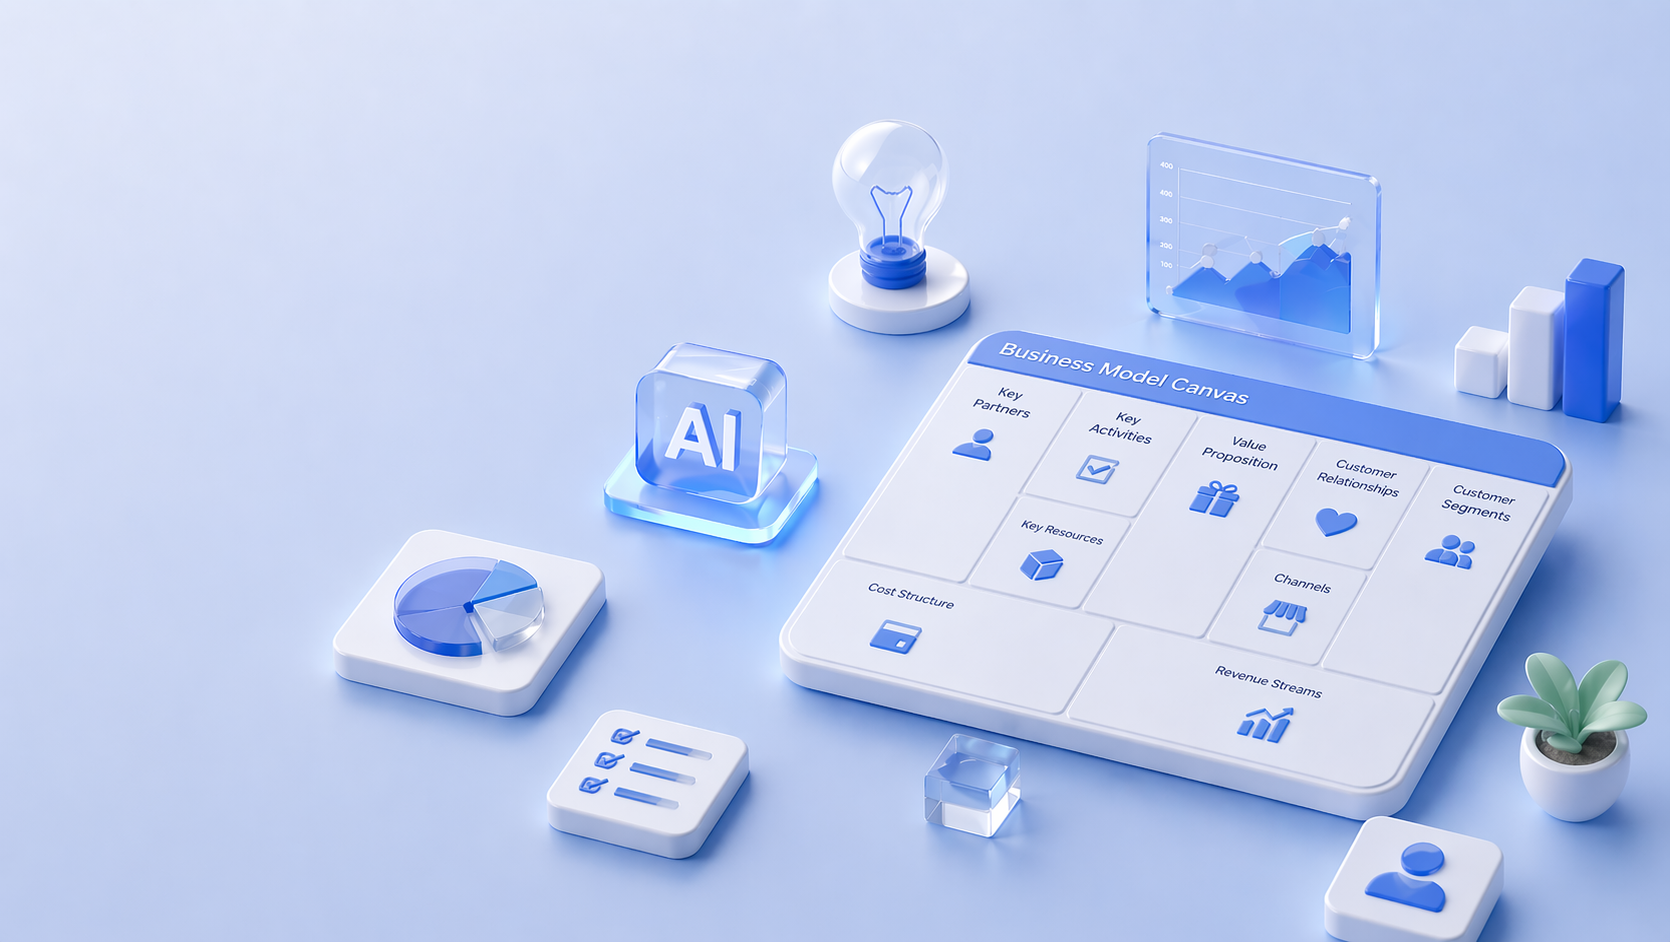
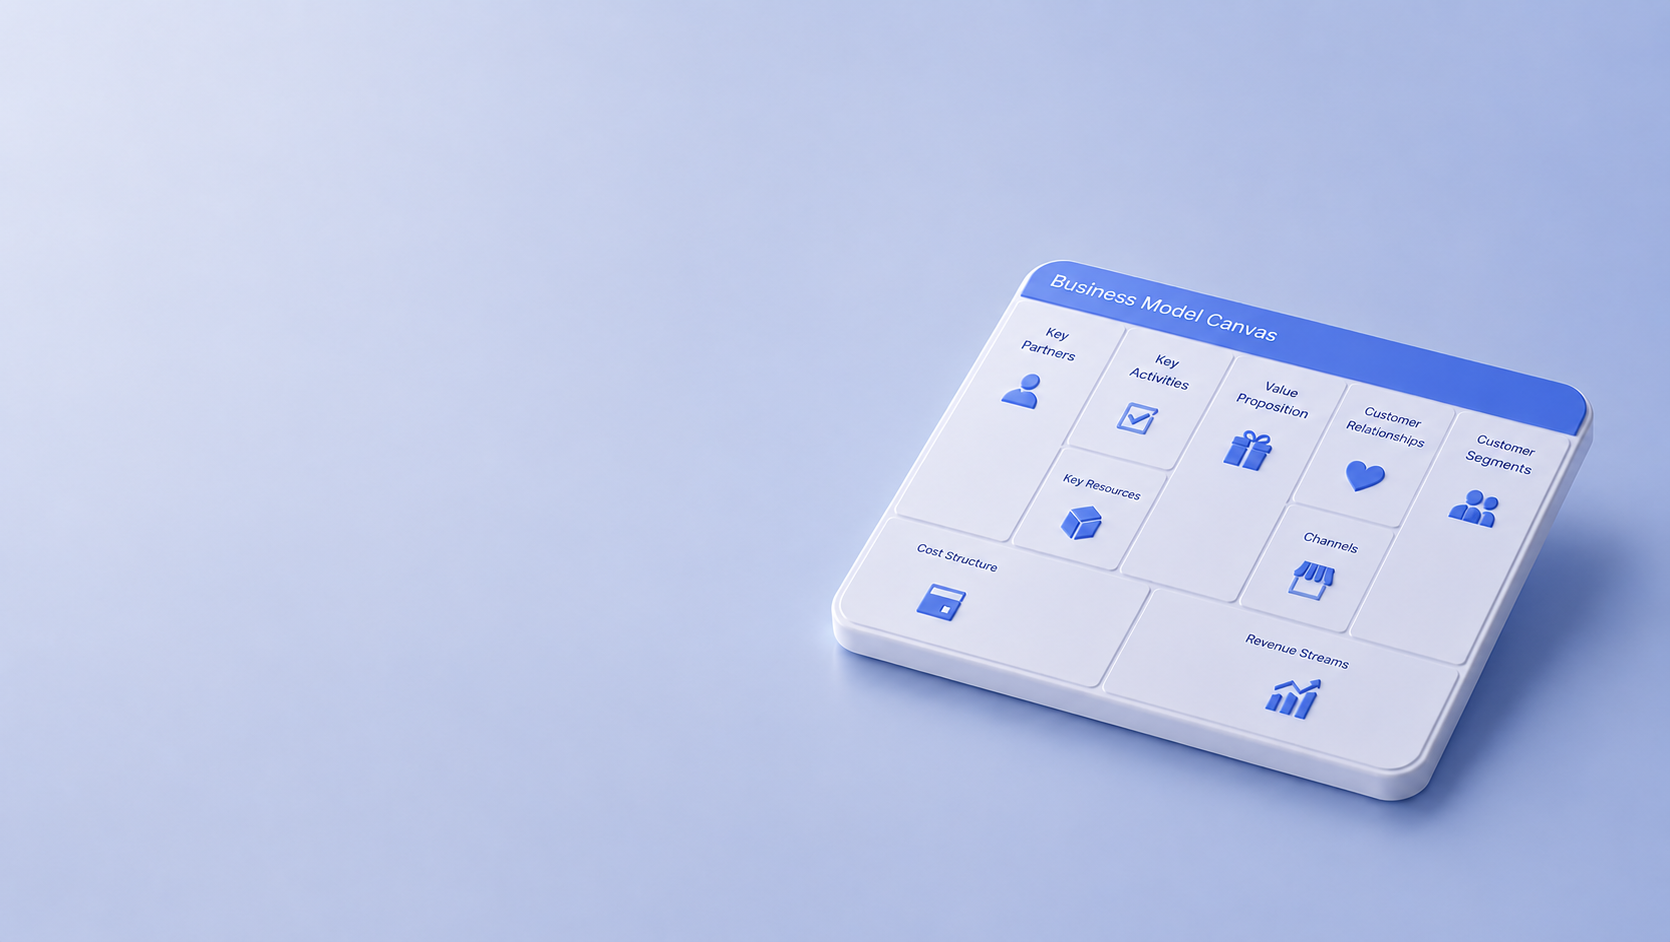
feat: 메인페이지 배경 및 STEP 가이드 UI 개선

diff --git a/src/pages/MainPage.jsx b/src/pages/MainPage.jsx
@@ -1,6 +1,7 @@
 import MainLayout from "../layouts/MainLayout";
 import Button from "../components/Button";
-import { ChevronDown } from "lucide-react";
+import { useState } from "react";
+import { ChevronDown, ChevronLeft, ChevronRight } from "lucide-react";
 
 const scrollToSection = (id) => {
   const element = document.getElementById(id);
@@ -12,45 +13,68 @@ const scrollToSection = (id) => {
   }
 };
 
-const guideImages = [
+const guideSteps = [
   {
-    step: "STEP 01",
+    step: "STEP 1",
     title: "아이디어 입력",
+    desc: "사업 아이디어의 제목과 핵심 내용을 입력합니다.",
     image: "/Guide_01_Idea.png",
   },
   {
-    step: "STEP 02",
+    step: "STEP 2",
     title: "경쟁 서비스 탐색",
+    desc: "입력한 아이디어와 유사한 경쟁 서비스를 탐색합니다.",
     image: "/Guide_02_Explore.png",
   },
   {
-    step: "STEP 03",
+    step: "STEP 3",
     title: "BMC 자동 생성",
+    desc: "AI가 아이디어를 기반으로 비즈니스 모델 캔버스를 생성합니다.",
     image: "/Guide_03_Create.png",
   },
   {
-    step: "STEP 04",
+    step: "STEP 4",
     title: "BMC 분석",
+    desc: "생성된 BMC의 강점과 보완점을 분석합니다.",
     image: "/Guide_04_Analyze.png",
   },
   {
-    step: "STEP 05",
-    title: "결과 출력",
+    step: "STEP 5",
+    title: "분석 결과 확인",
+    desc: "AI 분석 결과를 확인하고 개선 방향을 파악합니다.",
     image: "/Guide_05_Result.png",
   },
   {
-    step: "STEP 06",
+    step: "STEP 6",
     title: "마이페이지",
+    desc: "생성한 아이디어와 BMC 기록을 관리합니다.",
     image: "/Guide_06_MyPage.png",
   },
   {
-    step: "STEP 07",
+    step: "STEP 7",
     title: "BMC 수정",
+    desc: "필요한 내용을 직접 수정하며 BMC를 완성합니다.",
     image: "/Guide_07_Edit.png",
   },
 ];
 
 function MainPage() {
+  const [currentStep, setCurrentStep] = useState(0);
+
+  const prevStep = () => {
+    setCurrentStep((prev) =>
+      prev === 0 ? guideSteps.length - 1 : prev - 1
+    );
+  };
+
+  const nextStep = () => {
+    setCurrentStep((prev) =>
+      prev === guideSteps.length - 1 ? 0 : prev + 1
+    );
+  };
+
+  const step = guideSteps[currentStep];
+
   return (
     <MainLayout>
       {/* Hero */}
@@ -59,7 +83,9 @@ function MainPage() {
         className="
           relative
           overflow-hidden
-          bg-[radial-gradient(circle_at_center,_#e6edff_0%,_#dbe6fb_45%,_#cfddf5_100%)]
+          bg-gradient-to-r
+          from-[#F4F7FF]
+          to-[#DCE6FF]
         "
       >
         <div
@@ -73,7 +99,7 @@ function MainPage() {
             bg-no-repeat
           "
           style={{
-            backgroundImage: "url('/MainPage_Background.png')",
+            backgroundImage: "url('/Background2.png')",
           }}
         >
           {/* 좌우 배경 연결 */}
@@ -84,7 +110,7 @@ function MainPage() {
               left-0
               w-40
               bg-gradient-to-r
-              from-[#d7e2f7]
+              from-[#F4F7FF]
               to-transparent
               z-[1]
               pointer-events-none
@@ -98,9 +124,8 @@ function MainPage() {
               right-0
               w-40
               bg-gradient-to-l
-              from-[#d7e2f7]
+              from-[#DCE6FF]
               to-transparent
-              
               z-[1]
               pointer-events-none
             "
@@ -161,7 +186,7 @@ function MainPage() {
         </div>
 
         <button
-          onClick={() => scrollToSection("guide-0")}
+          onClick={() => scrollToSection("guide")}
           className="
             absolute
             bottom-8
@@ -178,57 +203,157 @@ function MainPage() {
       </section>
 
       {/* Guide */}
-      <section className="bg-white py-20">
+      <section id="guide" className="w-full bg-white pt-7 pb-11">
         <div className="max-w-[1440px] mx-auto px-10">
-          <div className="flex flex-col gap-32">
-            {guideImages.map((item, index) => (
-              <section
-                id={`guide-${index}`}
+          
+          <div className="text-center mb-8">
+            <h2 className="text-4xl font-bold text-gray-900">
+              PlanB 사용 방법
+            </h2>
+          </div>
+
+          {/* STEP Tabs */}
+          <div className="flex justify-center gap-3 mb-12 flex-wrap">
+            {guideSteps.map((item, index) => (
+              <button
                 key={item.step}
-                className="relative flex flex-col gap-6 pb-20"
+                onClick={() => setCurrentStep(index)}
+                className={`
+                  px-5 py-3 rounded-full text-sm font-semibold transition-all
+                  ${
+                    currentStep === index
+                      ? "bg-blue-500 text-white shadow-[0_8px_24px_rgba(59,130,246,0.25)]"
+                      : "bg-white text-gray-400 border border-gray-200 hover:text-blue-500 hover:border-blue-300"
+                  }
+                `}
               >
-                <div>
-                  <span className="text-blue-500 font-semibold text-2xl tracking-wide">
-                    {item.step}
-                  </span>
-
-                  <h3 className="text-3xl font-bold text-gray-900 mt-3">
-                    {item.title}
-                  </h3>
-                </div>
-
-                <img
-                  src={item.image}
-                  alt={item.title}
-                  className="
-                    w-full
-                    rounded-3xl
-                    border border-gray-200
-                    shadow-[0_20px_60px_rgba(0,0,0,0.06)]
-                  "
-                />
-
-                {index !== guideImages.length - 1 && (
-                  <button
-                    onClick={() => scrollToSection(`guide-${index + 1}`)}
-                    className="
-                      absolute
-                      -bottom-16
-                      left-1/2
-                      -translate-x-1/2
-                      text-gray-500
-                      hover:text-blue-500
-                      transition
-                      animate-bounce
-                    "
-                  >
-                    <ChevronDown size={44} strokeWidth={1.5} />
-                  </button>
-                )}
-              </section>
+                {item.step}
+              </button>
             ))}
           </div>
+
+          {/* Slider */}
+          <div className="relative overflow-hidden rounded-[36px] border border-gray-100 bg-[#F8FAFF] shadow-[0_20px_60px_rgba(15,23,42,0.08)]">
+
+            <div className="grid grid-cols-[1.15fr_0.85fr] min-h-[620px]">
+
+              {/* Left */}
+              <div className="relative flex items-center justify-center overflow-hidden bg-gradient-to-br from-[#F4F7FF] to-[#DCE6FF] p-14">
+
+                {/* Blur */}
+                <div className="absolute w-[520px] h-[520px] rounded-full bg-white/40 blur-3xl" />
+
+                {/* Prev */}
+                <button
+                  onClick={prevStep}
+                  className="
+                    absolute left-8 z-20
+                    w-12 h-12 rounded-full bg-white/90
+                    flex items-center justify-center
+                    border border-gray-100
+                    shadow-md
+                    hover:bg-blue-50
+                    active:scale-95
+                    transition
+                  "
+                >
+                  <ChevronLeft className="text-blue-500" />
+                </button>
+
+                {/* Image */}
+                <div
+                  key={currentStep}
+                  className="
+                    relative z-10
+                    w-full max-w-[760px]
+                    animate-[slideIn_0.45s_ease]
+                  "
+                >
+                  <div className="rounded-[30px] bg-white/70 p-4 backdrop-blur shadow-[0_18px_50px_rgba(15,23,42,0.12)]">
+
+                    <img
+                      src={step.image}
+                      alt={step.title}
+                      className="
+                        w-full
+                        h-[420px]
+                        object-cover
+                        object-top
+                        rounded-[22px]
+                      "
+                    />
+                  </div>
+                </div>
+
+                {/* Next */}
+                <button
+                  onClick={nextStep}
+                  className="
+                    absolute right-8 z-20
+                    w-12 h-12 rounded-full bg-white/90
+                    flex items-center justify-center
+                    border border-gray-100
+                    shadow-md
+                    hover:bg-blue-50
+                    active:scale-95
+                    transition
+                  "
+                >
+                  <ChevronRight className="text-blue-500" />
+                </button>
+              </div>
+
+              {/* Right */}
+              <div className="flex flex-col justify-center px-16 py-14">
+
+                <p className="text-blue-500 text-lg font-bold mb-4">
+                  {step.step}
+                </p>
+
+                <h3 className="text-5xl font-bold text-gray-900 leading-tight mb-8">
+                  {step.title}
+                </h3>
+
+                <p className="text-gray-500 text-lg leading-9 mb-12">
+                  {step.desc}
+                </p>
+
+                {/* Progress */}
+                <div className="flex gap-2">
+                  {guideSteps.map((_, index) => (
+                    <div
+                      key={index}
+                      className={`
+                        h-2 rounded-full transition-all duration-300
+                        ${
+                          currentStep === index
+                            ? "w-10 bg-blue-500"
+                            : "w-2 bg-gray-300"
+                        }
+                      `}
+                    />
+                  ))}
+                </div>
+              </div>
+            </div>
+          </div>
         </div>
+
+        <style>
+          {`
+            @keyframes slideIn {
+              from {
+                opacity: 0;
+                transform: translateX(40px);
+              }
+
+              to {
+                opacity: 1;
+                transform: translateX(0);
+              }
+            }
+          `}
+        </style>
       </section>
     </MainLayout>
   );

diff --git a/src/components/Footer.jsx b/src/components/Footer.jsx
@@ -25,11 +25,18 @@ function Footer() {
         <div className="grid grid-cols-[1.8fr_1fr_1fr_1fr] gap-14">
           {/* Brand */}
           <div>
-            <img
-              src="/Logo.png"
-              alt="PlanB Logo"
-              className="h-10 w-auto object-contain mb-6"
-            />
+            <Link to="/">
+              <img
+                src="/Logo.png"
+                alt="PlanB Logo"
+                className="
+                  h-10 w-auto object-contain mb-6
+                  cursor-pointer
+                  transition
+                  hover:opacity-80
+                "
+              />
+            </Link>
 
             <p className="text-gray-500 text-sm leading-7 mb-6">
               AI 기반으로 비즈니스 모델을

diff --git a/src/router/AppRouter.jsx b/src/router/AppRouter.jsx
@@ -10,9 +10,13 @@ import BMCResultPage from "../pages/BMCResultPage";
 import BMCEditPage from "../pages/BMCEditPage";
 import MyPage from "../pages/MyPage";
 
+import ScrollToTop from "../components/ScrollToTop";
+
 function AppRouter() {
   return (
     <BrowserRouter>
+      <ScrollToTop />
+
       <Routes>
         <Route path="/" element={<MainPage />} />
         <Route path="/auth" element={<AuthPage />} />

diff --git a/src/components/ScrollToTop.jsx b/src/components/ScrollToTop.jsx
@@ -1,0 +1,17 @@
+import { useEffect } from "react";
+import { useLocation } from "react-router-dom";
+
+function ScrollToTop() {
+  const { pathname } = useLocation();
+
+  useEffect(() => {
+    window.scrollTo({
+      top: 0,
+      behavior: "instant",
+    });
+  }, [pathname]);
+
+  return null;
+}
+
+export default ScrollToTop;
